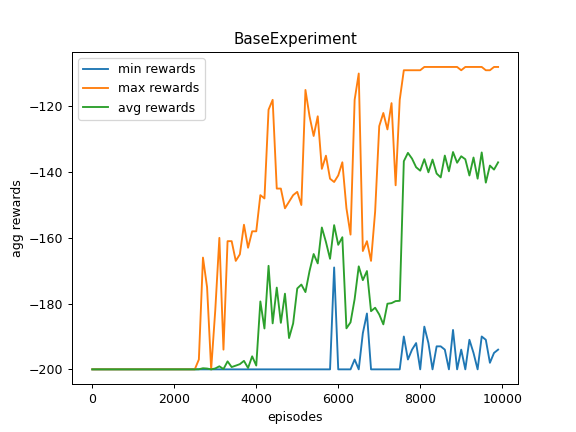
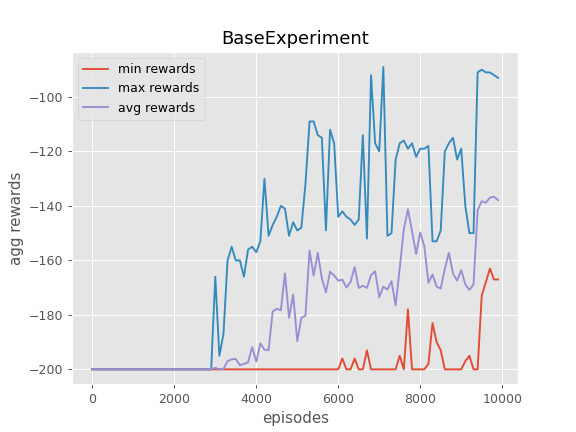
Refactored expt module.

diff --git a/MountainCar/base/expt.py b/MountainCar/base/expt.py
@@ -111,7 +111,6 @@ class BaseExperiment(object):
 
         # Loop over all steps of this episode
         while not done:
-
             # Choose an action
             action = self.choose_action(discrete_state)
             # Step the env
@@ -119,13 +118,14 @@ class BaseExperiment(object):
             # Discret-ise the new state
             new_discrete_state = self.get_discrete_state(new_state)
 
-            # Determine the updated Q-value for (current state, chosen action)
-            # ----------------------------------------------------------------
+            # Update the Q-value for (current state, chosen action)
+            # -----------------------------------------------------------------
+
             # Unpack the new_state
             pos, vel = new_state
-            # MountainCar did not reach the goal flag
-            if pos < self.env.goal_position:
-                # Current Q value for this particular state and the taken action
+
+            if pos < self.env.goal_position:  # MountainCar did not reach the goal flag
+                # Current Q value for this particular (state, taken action)
                 current_q = self.q_table[discrete_state + (action,)]
                 # Max possible Q value by actioning from the future state
                 max_future_q = np.max(self.q_table[new_discrete_state])
@@ -133,21 +133,20 @@ class BaseExperiment(object):
                 # Ref.: https://pythonprogramming.net/static/images/reinforcement-learning/new-q-value-formula.png
                 new_q = (1 - self.LEARNING_RATE) * current_q \
                         + self.LEARNING_RATE * (reward + self.DISCOUNT * max_future_q)
-            # MountainCar made it to / past the goal flag !
-            else:
+            else:                             # MountainCar made it to / past the goal flag !
                 # We got the max possible reward (at any step) i.e. 0
                 new_q = 0
-            # ----------------------------------------------------------------
 
             # Update the q_table
             self.q_table[discrete_state + (action,)] = new_q
+            # -----------------------------------------------------------------
 
             # Accumulate reward for stats
             episode_reward += reward
 
             # Did this episode complete ?
             if done:
-                # Collect total total reward for this episode for stats
+                # Collect total reward for this episode for stats
                 self.achieved_rewards.append(episode_reward)
 
             # Set new discrete state as the current discrete state
@@ -184,6 +183,7 @@ class BaseExperiment(object):
 
     def viz_stats(self):
         # Viz stats
+        plt.style.use('ggplot')
         plt.plot(self.stats['ep'], self.stats['min'], label='min rewards')
         plt.plot(self.stats['ep'], self.stats['max'], label='max rewards')
         plt.plot(self.stats['ep'], self.stats['avg'], label='avg rewards')
